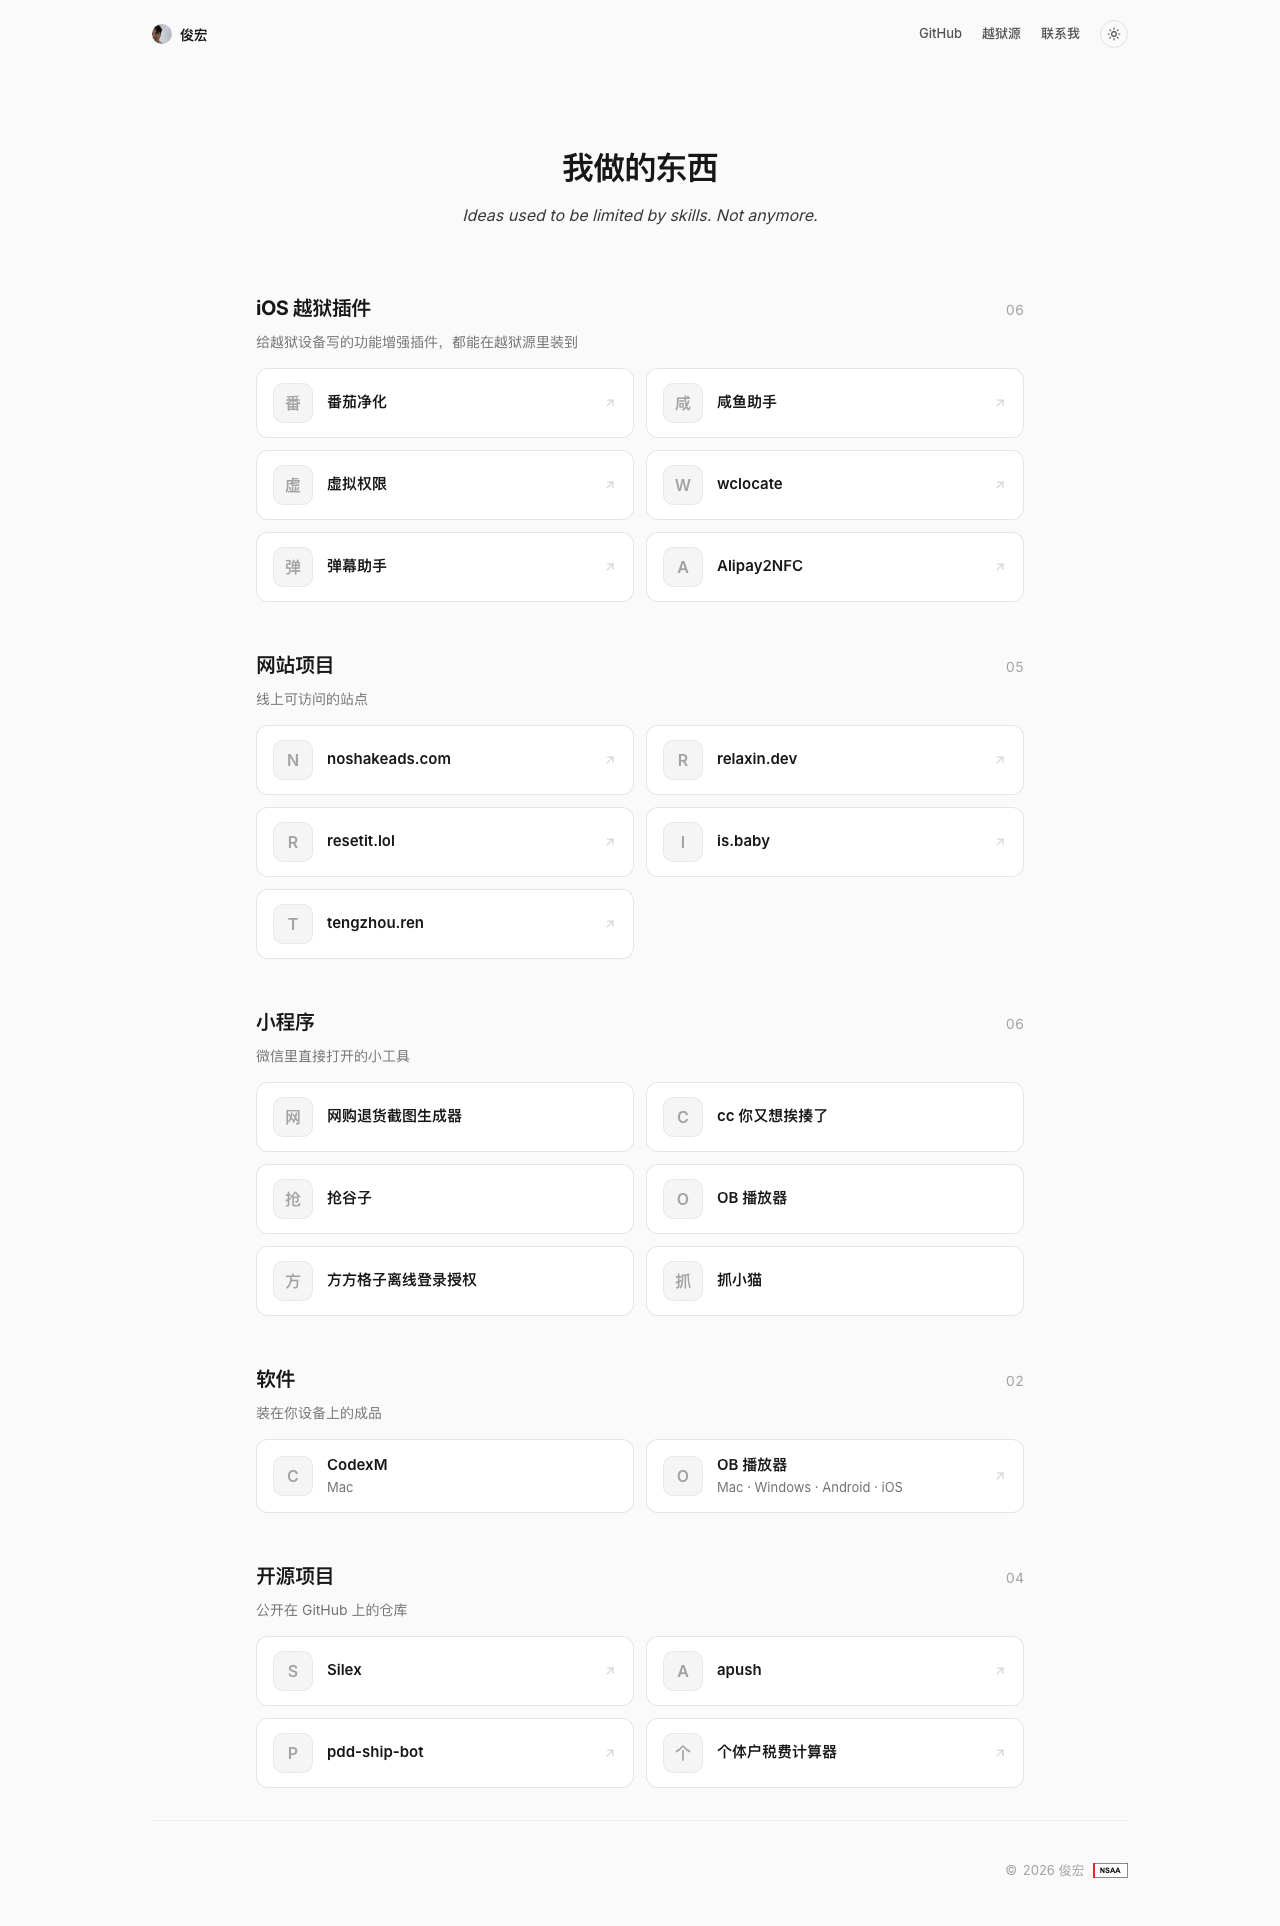
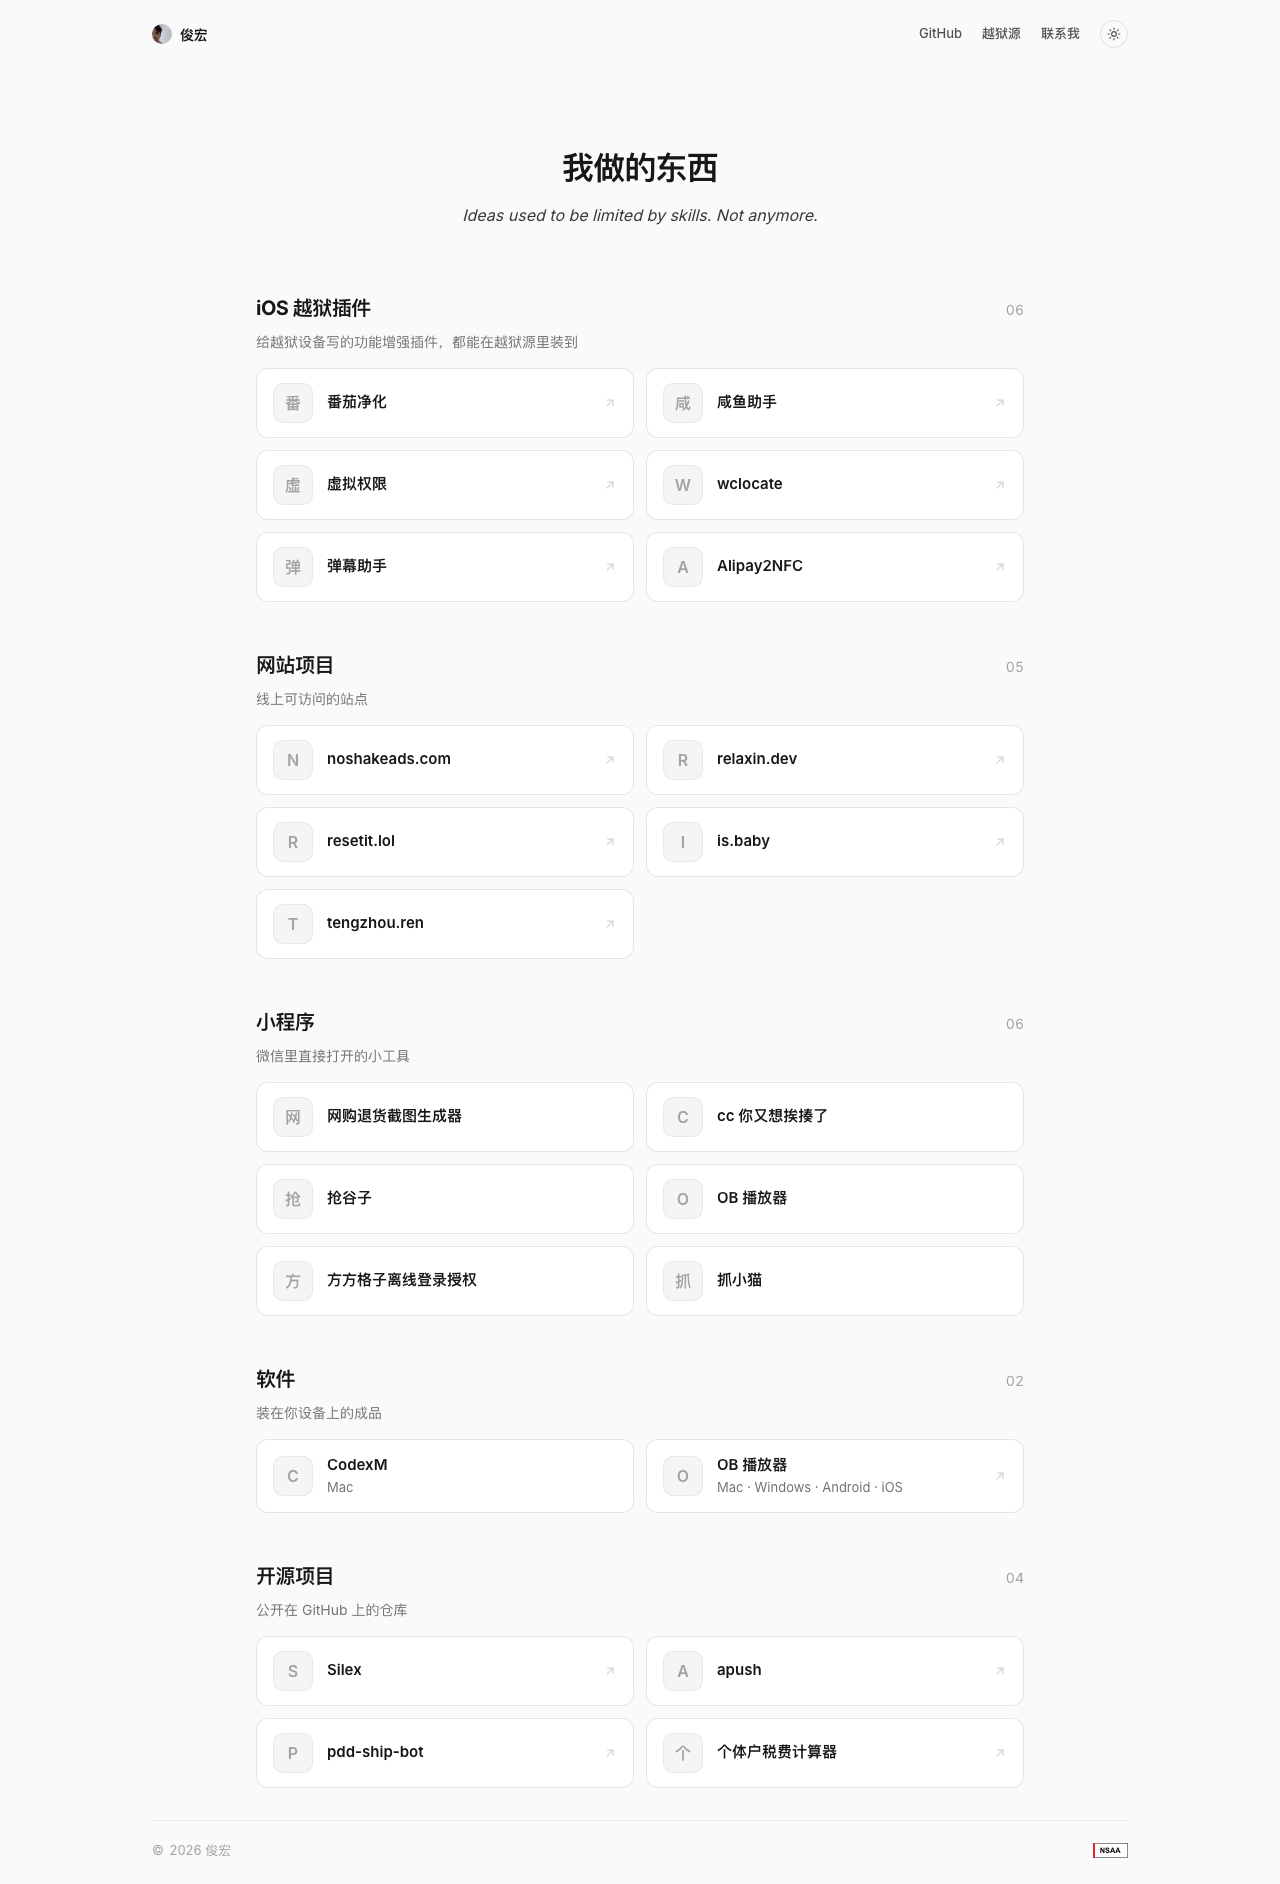
页脚改为两端对齐并压缩高度
- 版权文字靠左、徽章靠右（space-between），不再整体右对齐
- 页脚内边距 2.5rem -> 1.25rem，总高度约 101px -> 61px

diff --git a/assets/styles.css b/assets/styles.css
@@ -474,7 +474,7 @@ main {
 /* ---------- 8. 页脚 ---------- */
 .footer {
   border-top: 1px solid var(--border-hairline);
-  padding: 2.5rem 0;
+  padding: 1.25rem 0;
   text-align: center;
   font-size: 13px;
   color: var(--muted-soft);
@@ -508,11 +508,11 @@ main {
   gap: 0.25rem;
 }
 
-/* 底行：版权 + 徽章，同一行右对齐 */
+/* 底行：版权靠左，徽章靠右，两端对齐 */
 .footer__bottom {
   display: flex;
   align-items: center;
-  justify-content: flex-end;
+  justify-content: space-between;
   flex-wrap: wrap;
   gap: 0.5rem;
 }
